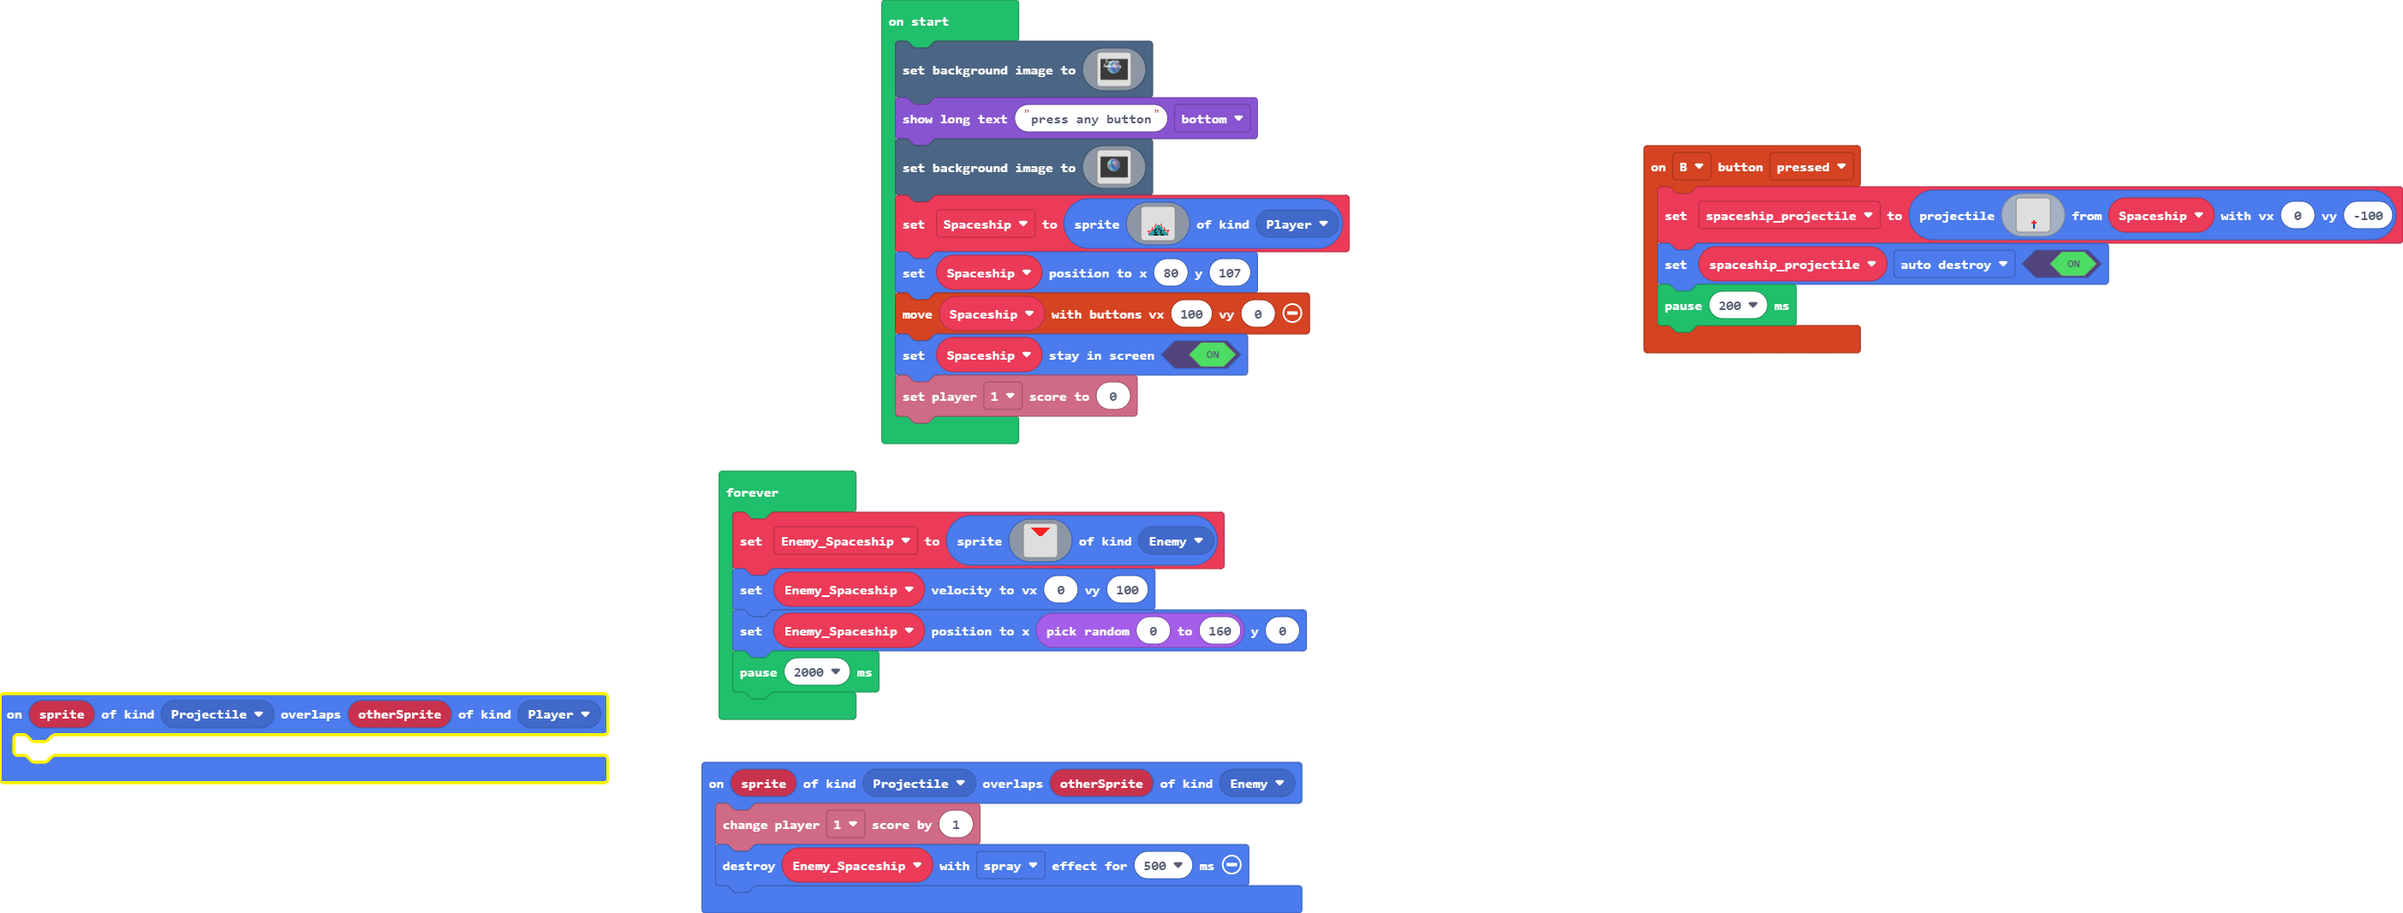
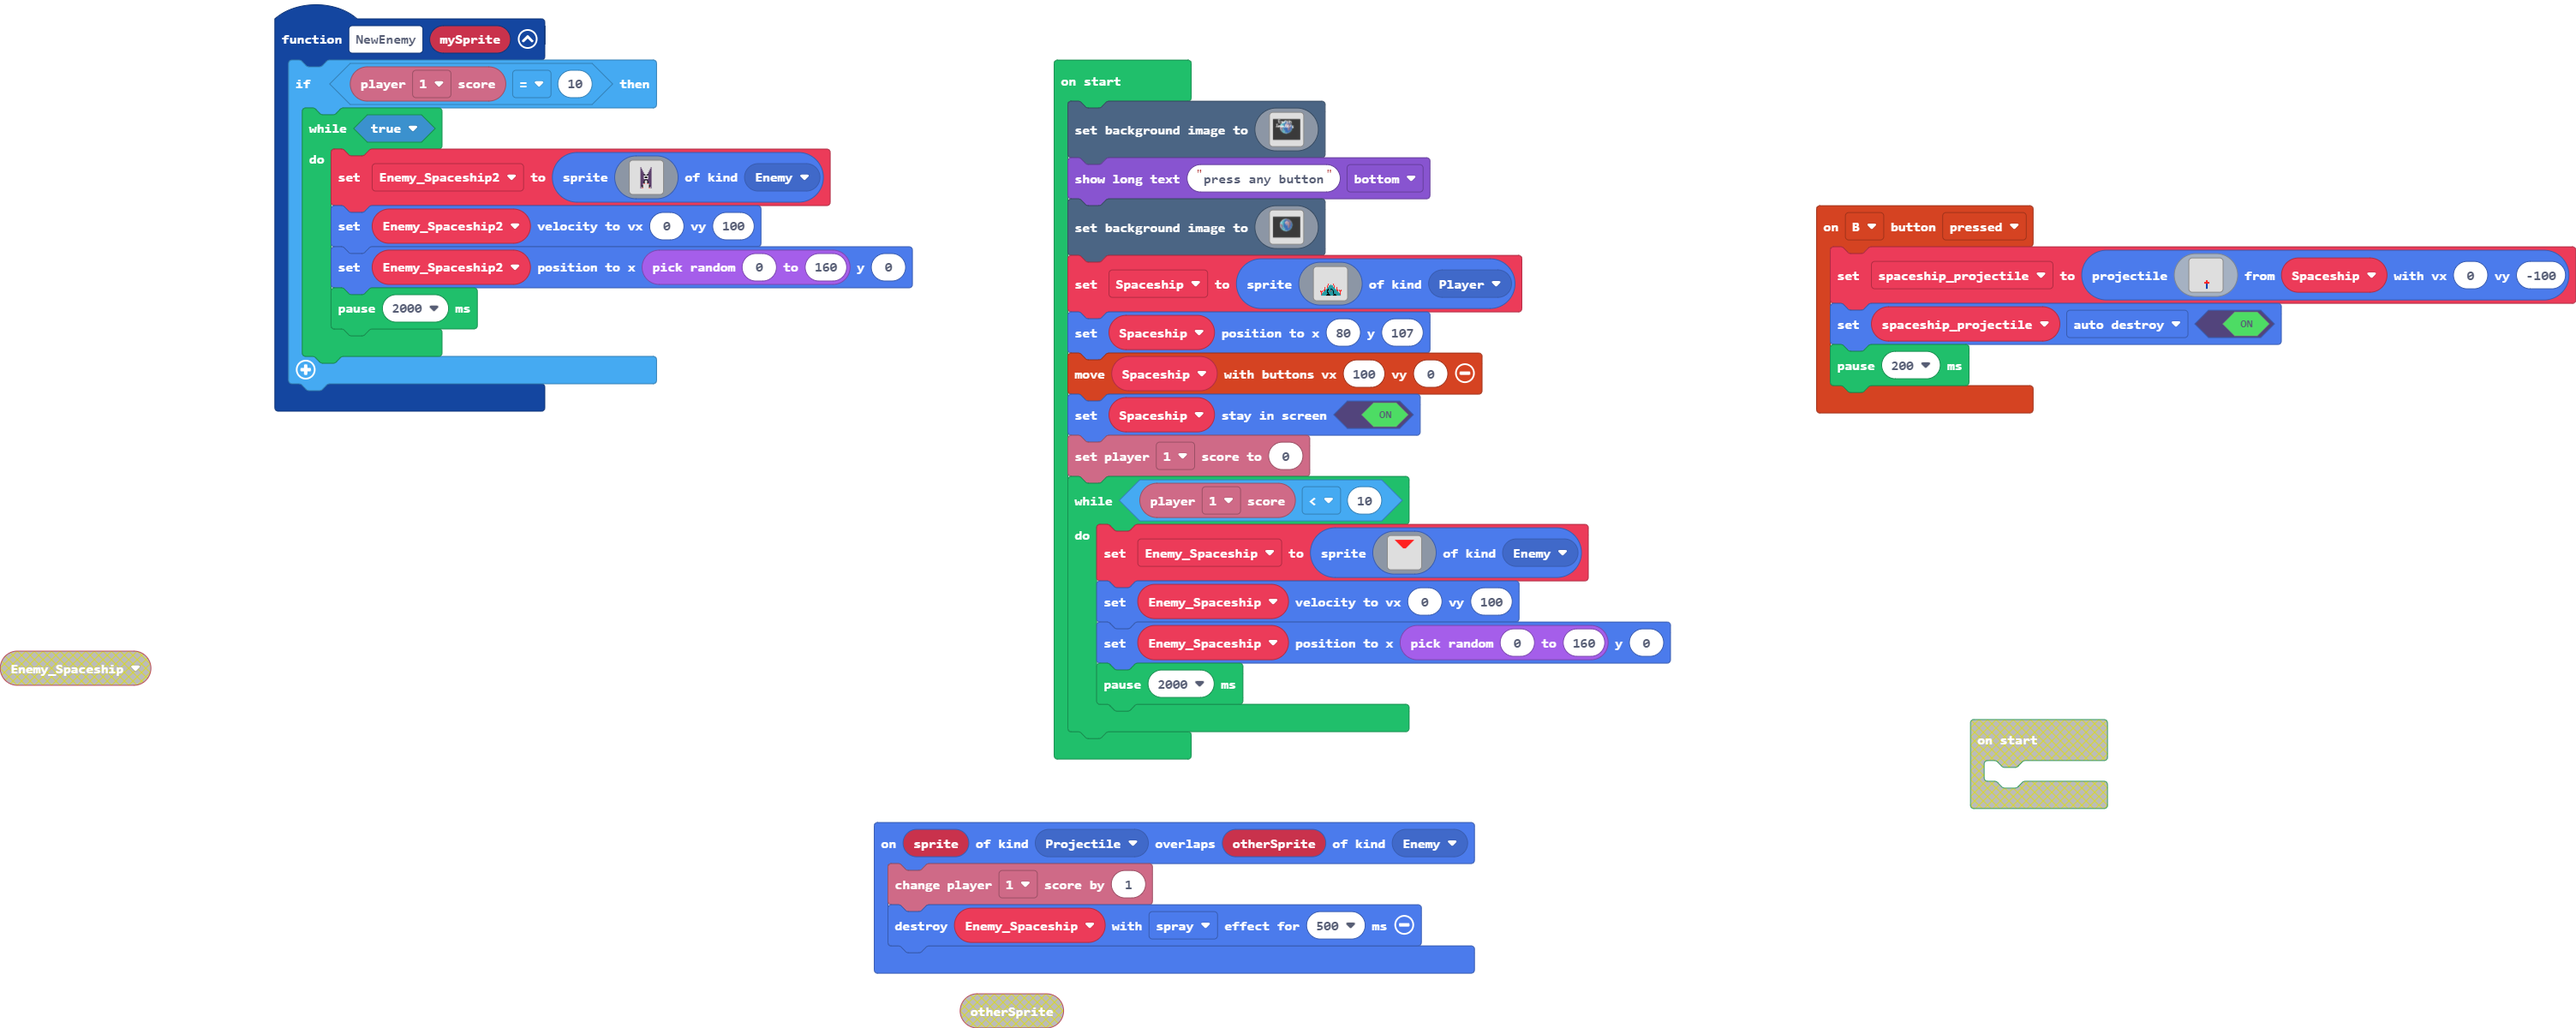
Update main.blocks, main.ts

diff --git a/main.ts b/main.ts
@@ -20,15 +20,56 @@ controller.B.onEvent(ControllerButtonEvent.Pressed, function () {
     spaceship_projectile.setFlag(SpriteFlag.AutoDestroy, true)
     pause(200)
 })
-sprites.onOverlap(SpriteKind.Projectile, SpriteKind.Player, function (sprite, otherSprite) {
-	
-})
+function NewEnemy (mySprite: Sprite) {
+    if (info.player1.score() == 10) {
+        while (true) {
+            Enemy_Spaceship2 = sprites.create(img`
+                ................................
+                ................................
+                ................................
+                ................................
+                .........c...........c..........
+                .........c...........c..........
+                .........cc.........cc..........
+                .........cc.........cc..........
+                .........ccc.......ccc..........
+                .........ccc.......ccc..........
+                .........cccc.....cccc..........
+                .........cccc.....cccc..........
+                .........ccccf...fcccc..........
+                .........cccccf.fccccc..........
+                .........cccc11111cccc..........
+                .........cccc1fff1cccc..........
+                .........cccc1fff1cccc..........
+                .........cccc11111cccc..........
+                .........ccccccfcccccc..........
+                .........cccccf.fccccc..........
+                .........ccccf...fcccc..........
+                .........ccccf...fcccc..........
+                .........ccccf...fcccc..........
+                .........ccc.2...2.ccc..........
+                .........ccc.......ccc..........
+                .........ccf.......fcc..........
+                .........ccf.......fcc..........
+                .........c.f.......f.c..........
+                .........c.2.......2.c..........
+                ................................
+                ................................
+                ................................
+                `, SpriteKind.Enemy)
+            Enemy_Spaceship2.setVelocity(0, 100)
+            Enemy_Spaceship2.setPosition(randint(0, 160), 0)
+            pause(2000)
+        }
+    }
+}
 sprites.onOverlap(SpriteKind.Projectile, SpriteKind.Enemy, function (sprite, otherSprite) {
     info.player1.changeScoreBy(1)
     sprites.destroy(Enemy_Spaceship, effects.spray, 500)
 })
-let Enemy_Spaceship: Sprite = null
+let Enemy_Spaceship2: Sprite = null
 let spaceship_projectile: Sprite = null
+let Enemy_Spaceship: Sprite = null
 let Spaceship: Sprite = null
 scene.setBackgroundImage(img`
     ffffffffffffffffffffffffffffffffffffffffffffffffffffffffffffffffffffffffffffffffffffffffffffffffffffffffffffffffffffffffffffffffffffffffffffffffffffffffffffffff
@@ -313,7 +354,7 @@ Spaceship.setPosition(80, 107)
 controller.moveSprite(Spaceship, 100, 0)
 Spaceship.setStayInScreen(true)
 info.player1.setScore(0)
-forever(function () {
+while (info.player1.score() < 10) {
     Enemy_Spaceship = sprites.create(img`
         ................................
         .....2222222222222222222222.....
@@ -351,4 +392,4 @@ forever(function () {
     Enemy_Spaceship.setVelocity(0, 100)
     Enemy_Spaceship.setPosition(randint(0, 160), 0)
     pause(2000)
-})
+}
